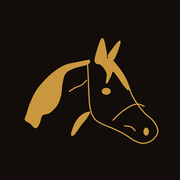
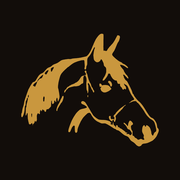
v2.2: gedetailleerde paardenkop (getrouwe vectorisatie), loader omlijning-dan-vulling

Changed region(s): [[0.1111, 0.1667, 0.8889, 0.8333], [0.2222, 0.5278, 0.25, 0.5833]]

diff --git a/src/kop.ts b/src/kop.ts
@@ -1,18 +1,4 @@
-// Paardenkop, vereenvoudigd overgetrokken uit het logo (zie /workspace/tpeerdeke-img/paardenkop.svg)
-export const KOP_VB = "30 20 740 590";
-export const KOP: { t: "ln" | "fl"; d?: string; e?: [number, number, number, number] }[] = [
-  { t: "ln", d: "M395 150C384.2 152.5 351.7 160 330 165C308.3 170 285.8 171.7 265 180C244.2 188.3 224.2 200.8 205 215C185.8 229.2 166.7 247.5 150 265C133.3 282.5 118 300 105 320C92 340 81.2 363.3 72 385C62.8 406.7 55.3 434.5 50 450C44.7 465.5 41.7 473.3 40 478" },
-  { t: "ln", d: "M386 168C386.7 180 388.8 214.7 390 240C391.2 265.3 391.7 293.3 393 320C394.3 346.7 395.5 379.2 398 400C400.5 420.8 406.3 437.5 408 445" },
-  { t: "ln", d: "M522 148C529.7 157.5 554.5 185.5 568 205C581.5 224.5 592.2 242 603 265C613.8 288 622.8 321.5 633 343C643.2 364.5 652 377 664 394C676 411 690.7 429.8 705 445C719.3 460.2 738.3 470.8 750 485C761.7 499.2 771.7 516.5 775 530C778.3 543.5 776.5 554.3 770 566C763.5 577.7 749.3 592.5 736 600C722.7 607.5 705.2 611.7 690 611C674.8 610.3 652.5 598.5 645 596" },
-  { t: "ln", d: "M645 596C635.8 590 609.2 571 590 560C570.8 549 550 539.2 530 530C510 520.8 486.7 513.3 470 505C453.3 496.7 440.3 490 430 480C419.7 470 411.7 450.8 408 445" },
-  { t: "ln", d: "M286 322C291.7 318.5 308.5 307 320 301C331.5 295 345 292.5 355 286C365 279.5 375.8 266 380 262" },
-  { t: "ln", d: "M528 482C535 475.3 554.7 454.5 570 442C585.3 429.5 604.3 415.2 620 407C635.7 398.8 650.7 393.3 664 393C677.3 392.7 694 403 700 405" },
-  { t: "ln", d: "M592 514C598 515 618.3 515.7 628 520C637.7 524.3 646.3 536.7 650 540" },
-  { t: "fl", d: "M392 152C382.7 150.8 351.2 158.7 330 163C308.8 167.3 285.8 169.7 265 178C244.2 186.3 224.2 198.8 205 213C185.8 227.2 166.7 245.5 150 263C133.3 280.5 118 298 105 318C92 338 81.2 361.3 72 383C62.8 404.7 55 431.8 50 448C45 464.2 38.7 471.3 42 480C45.3 488.7 60.7 492.7 70 500C79.3 507.3 90 524.3 98 524C106 523.7 112 509.7 118 498C124 486.3 124.7 463.7 134 454C143.3 444.3 160.7 449 174 440C187.3 431 203.7 415.8 214 400C224.3 384.2 231 365 236 345C241 325 239.7 300.5 244 280C248.3 259.5 251 236.7 262 222C273 207.3 289.3 200.7 310 192C330.7 183.3 372.3 176.7 386 170C399.7 163.3 401.3 153.2 392 152Z" },
-  { t: "fl", d: "M430 158C426.3 146.7 433.7 121.3 440 100C446.3 78.7 460.3 32 468 30C475.7 28 482.3 69.7 486 88C489.7 106.3 494 126.7 490 140C486 153.3 472 165 462 168C452 171 433.7 169.3 430 158Z" },
-  { t: "fl", d: "M502 128C502.3 117.7 517.3 100 528 86C538.7 72 562.3 41.3 566 44C569.7 46.7 556.7 84.7 550 102C543.3 119.3 534 143.7 526 148C518 152.3 501.7 138.3 502 128Z" },
-  { t: "fl", d: "M458 165C459.7 157 477.3 144.2 488 142C498.7 139.8 510 142.7 522 152C534 161.3 547.7 181.3 560 198C572.3 214.7 587 233 596 252C605 271 615 305.7 614 312C613 318.3 599 301 590 290C581 279 570.3 259.3 560 246C549.7 232.7 536 211 528 210C520 209 518 229 512 240C506 251 494.7 278.3 492 276C489.3 273.7 498.3 240.3 496 226C493.7 211.7 484.3 200.2 478 190C471.7 179.8 456.3 173 458 165Z" },
-  { t: "fl", e: [490, 322, 25, 19] },
-  { t: "fl", e: [712, 546, 15, 22] },
-  { t: "fl", d: "M298 560C299 550.3 309 519 318 502C327 485 339 468.7 352 458C365 447.3 391.7 435.7 396 438C400.3 440.3 386.3 459.7 378 472C369.7 484.3 357 497.3 346 512C335 526.7 320 552 312 560C304 568 297 569.7 298 560Z" },
-];
+// Paardenkop uit het logo, getrouw gevectoriseerd (4x Lanczos, iso-contour, Bezier-fit). Bron: /workspace/tpeerdeke-img/paardenkop.svg
+export const KOP_VB = "173.8 16.3 381.1 314";
+export const KOP_D =
+  "M394.8 20.5C393.2 20.9 391.6 21.4 389.4 23.5C387.2 25.6 383.9 29.5 381.6 33C379.3 36.5 377.9 39.6 375.6 44.5C373.4 49.5 370.1 58.1 367.9 62.8C365.7 67.5 364.1 70.2 362.6 72.7C361.1 75.2 360.1 76.3 358.9 77.7C357.7 79.1 356.7 80.2 355.4 81C354.1 81.8 354.4 81.8 351 82.6C347.6 83.4 340.4 85.1 335 85.9C329.7 86.8 322.7 87 318.8 87.5C314.9 88 313.9 88.8 311.5 89.1C309.1 89.3 307.1 88.9 304.3 89.1C301.4 89.3 297.2 89.9 294.2 90.5C291.2 91.1 289.3 91.2 286.3 92.7C283.3 94.2 279.8 97.6 276.2 99.6C272.6 101.5 267.7 102.8 264.6 104.5C261.6 106.2 260.6 107.9 257.9 109.6C255.2 111.2 251.8 111.6 248.4 114.3C245 116.9 240.7 122.9 237.6 125.5C234.5 128.1 232.1 128.1 229.9 129.7C227.6 131.4 226.7 132.2 224.3 135.4C221.8 138.6 218 146.2 215.3 149.2C212.6 152.1 211 149.9 208.2 153.3C205.4 156.7 200.6 165.6 198.5 169.3C196.4 173.1 197.6 170.4 195.7 175.8C193.7 181.2 188.7 195.4 186.8 201.5C185 207.6 185.7 208.5 184.7 212.5C183.7 216.5 181.8 221.8 180.9 225.5C180 229.3 179.8 233.1 179.3 235C178.9 236.8 178.6 235.8 178.3 236.7C178 237.7 177.8 239.3 177.8 240.8C177.7 242.2 177.8 244.3 178.1 245.2C178.4 246.2 179 246.5 179.4 246.7C179.9 246.9 180.2 247.4 180.9 246.3C181.7 245.2 182.9 242.6 183.8 240.1C184.6 237.7 185.4 235.5 186.1 231.7C186.7 228 187 220.4 187.6 217.5C188.1 214.6 188.8 216.6 189.2 214.3C189.6 212.1 189.4 206.4 189.9 204C190.4 201.7 191.8 201.6 192.2 200.3C192.7 199.1 192.4 197.6 192.8 196.6C193.1 195.7 194 194.9 194.4 194.5C194.8 194.2 195.2 193.6 195.4 194.5C195.5 195.4 195.8 196.6 195.3 199.7C194.8 202.8 192.8 209.7 192.2 213C191.6 216.3 191.9 218 191.6 219.5C191.3 221 190.7 218.7 190.4 222.3C190.1 225.8 189.7 237.5 189.7 240.7C189.6 244 190 241.5 190.2 241.6C190.5 241.8 190.8 242.5 191.2 241.6C191.7 240.8 192.7 237.5 193.2 236.5C193.6 235.6 193.9 236 194.2 236C194.5 236 194.7 234.1 195 236.6C195.3 239.1 195.2 246.6 195.7 251.2C196.3 255.7 197.8 261.5 198.4 264C199 266.4 199 265.4 199.6 265.8C200.1 266.2 201 266.6 201.7 266.5C202.5 266.3 203.5 265.6 204.2 265.1C204.9 264.5 205.4 263.3 205.9 263C206.3 262.6 206.4 262.5 206.9 263C207.3 263.6 208 265.1 208.4 266.3C208.7 267.5 208.7 270.2 208.8 270.2C209 270.2 208.6 267.6 209.3 266.4C209.9 265.2 211.8 264.4 212.7 262.8C213.6 261.2 214.4 258 214.9 257C215.3 256 215.2 256.4 215.6 256.8C216 257.2 216.8 259.5 217.5 259.4C218.1 259.3 219 257.1 219.5 256.1C219.9 255.1 220 255.6 220.1 253.5C220.2 251.4 219.8 245.7 219.9 243.3C220.1 240.8 220.6 240.2 221.1 239C221.7 237.8 222.4 236.3 223.3 236.2C224.1 236 225.3 238 226.1 238.3C226.9 238.6 227.8 238.6 228.2 237.8C228.5 237 228 235 228.2 233.3C228.5 231.7 229.2 228.7 229.6 227.8C230.1 226.9 230.8 227.5 231.2 228C231.6 228.4 231.8 229.8 232.1 230.3C232.4 230.7 232.3 231.4 232.9 230.6C233.6 229.8 235.1 226.1 235.9 225.5C236.6 225 236.7 226.9 237.5 227.4C238.2 227.9 239.9 228.2 240.4 228.7C241 229.2 240.5 230 240.8 230.6C241.1 231.1 241.5 231.6 242 231.9C242.5 232.2 243.2 232.4 243.7 232.3C244.1 232.1 244.4 231.9 244.8 230.9C245.2 229.9 245.5 227.4 246.1 226.4C246.6 225.5 247.3 225.3 248.2 225.1C249.1 224.8 249.9 225.8 251.4 224.8C252.9 223.7 256.2 220.3 257.4 218.8C258.6 217.3 258.2 218.1 258.4 215.8C258.7 213.4 258.7 207 258.9 204.8C259.1 202.5 259.5 202.5 259.7 202.1C260 201.7 260.2 201.4 260.4 202.5C260.7 203.5 260.8 206.7 261.2 208.2C261.6 209.7 261.9 211.3 262.8 211.3C263.6 211.3 265.7 209.7 266.5 208.3C267.2 207 267 204.1 267.2 203.1C267.5 202 267.6 202.3 268 202.1C268.4 201.9 269.2 201.5 269.6 202C270 202.5 270.1 204.5 270.6 205.1C271 205.6 272.1 206.2 272.4 205.3C272.7 204.4 272.2 201.3 272.5 199.5C272.8 197.6 273.8 195.2 274.2 194.3C274.6 193.5 274.7 194.1 275 194.4C275.3 194.8 275.6 195 276 196.4C276.3 197.9 276.7 202 277 203.1C277.4 204.3 277.3 205.1 278.1 203.2C278.8 201.3 281.4 196.8 281.5 191.7C281.6 186.6 279.5 176.7 278.8 172.6C278.1 168.4 277.5 168.9 277.3 166.8C277.2 164.6 277.3 162.8 277.7 159.8C278.1 156.8 278.4 153.3 279.6 148.7C280.7 144.2 282.4 136.8 284.5 132.4C286.6 128 288.8 126 292.1 122.4C295.3 118.9 301.8 113.1 304.2 111.1C306.6 109 305.9 110.7 306.6 110.2C307.2 109.8 305.7 110.2 308 108.4C310.3 106.6 315.5 102.1 320.3 99.7C325 97.2 332.1 94.9 336.5 93.6C340.9 92.4 344.9 92.2 346.8 92C348.7 91.8 347.7 92 348.1 92.5C348.5 93 348.8 92.4 349.1 95C349.5 97.7 350.1 105.2 350.1 108.5C350.1 111.8 349 113.5 349.2 115C349.4 116.5 350.6 117.4 351.3 117.4C352.1 117.5 353 116.8 353.5 115.4C354.1 114 354 110.9 354.5 108.9C355 106.9 356.1 106.7 356.6 103.2C357.1 99.7 356 92.1 357.4 87.8C358.9 83.4 362.5 81.6 365.2 77.1C368 72.6 371.8 64.2 373.7 60.8C375.6 57.5 376.1 57.1 376.7 56.9C377.3 56.7 377.7 58.3 377.5 59.5C377.4 60.7 376.4 61.2 375.7 64.1C375.1 67 374 73.6 373.6 76.8C373.3 79.9 373.6 80.3 373.8 82.8C374.1 85.2 374.4 89.2 375.3 91.3C376.2 93.5 378 94.7 379.1 95.8C380.3 96.8 381.3 97.1 382.2 97.5C383 97.8 383.4 97.7 384.2 97.6C385.1 97.6 385.9 97.7 387.1 97.2C388.2 96.7 390.1 95.6 391.2 94.4C392.4 93.2 393.5 90.7 394.1 89.9C394.7 89.2 394.4 89.4 394.9 89.8C395.3 90.1 396 90.3 397 92.1C398.1 93.9 400.1 98 401 100.6C401.9 103.2 401.5 105.5 402.6 107.5C403.7 109.6 406.6 110.5 407.6 113C408.6 115.6 408.3 120.4 408.3 122.8C408.4 125.1 408.2 125 407.6 127C407 128.9 406 131.8 404.8 134.4C403.5 137 400.9 140.4 399.9 142.5C398.9 144.7 398.4 146.4 398.6 147.2C398.9 148 400.5 147.5 401.4 147.1C402.4 146.7 402.7 146.7 404.2 144.9C405.8 143 409.2 138.4 410.8 135.9C412.3 133.4 412.9 130.9 413.6 129.7C414.3 128.5 414.5 128.7 415.1 128.5C415.7 128.3 416.3 128.3 417 128.6C417.7 128.9 418.3 128.9 419.1 130.1C419.8 131.2 420.2 133.5 421.5 135.6C422.8 137.8 424.8 141.1 426.6 143C428.5 144.9 430.9 146.2 432.6 147C434.3 147.8 435.4 146.5 436.6 147.8C437.7 149.2 438.3 153.6 439.3 155.1C440.3 156.5 441.6 156.2 442.6 156.5C443.7 156.7 445 155.8 445.6 156.6C446.2 157.3 445.5 159.7 446 161.1C446.5 162.5 447.9 164.3 448.5 165.1C449.2 165.9 449.3 165.1 450 166.1C450.7 167.2 451.9 170.3 452.8 171.3C453.7 172.3 454.7 172.3 455.4 172C456.1 171.8 456 169.9 457 169.7C457.9 169.6 460.1 171.4 461 171.3C461.8 171.2 461.9 170.4 461.9 169.2C462 168.1 462 166 461.3 164.6C460.7 163.1 458.9 161.7 458 160.3C457.2 159 456.4 156.9 456.4 156.3C456.4 155.6 457.5 156.2 458 156.4C458.4 156.7 458.4 157.4 459.1 157.8C459.7 158.3 461 158.5 461.8 159C462.7 159.6 463.5 160.3 464.4 161.3C465.2 162.2 465.1 161 466.8 164.6C468.6 168.2 472 177.5 474.8 182.9C477.6 188.2 482.1 193.9 483.6 196.5C485 199.1 483.9 197.8 483.6 198.5C483.4 199.1 483.3 199.8 482.3 200.4C481.3 201 478.7 201.5 477.7 202.1C476.7 202.6 477 203.2 476.5 203.6C475.9 204 474.7 204.2 474.2 204.6C473.8 205.1 474.1 206.1 473.6 206.4C473.1 206.8 471.6 206.7 471.1 207C470.6 207.2 470.6 207.7 470.7 207.9C470.7 208.1 470 208.7 471.7 208.1C473.3 207.4 478.1 205 480.6 204.2C483.2 203.4 485.4 203.2 487 203.3C488.6 203.3 489.2 203.7 490.2 204.5C491.1 205.2 492 206.9 492.9 207.8C493.8 208.6 493 206.5 495.6 209.6C498.1 212.6 504.8 221.5 508.2 226.2C511.5 230.9 513.6 235 515.6 238C517.7 241 518.4 242.1 520.5 244.4C522.6 246.6 526.5 250.2 528 251.6C529.6 252.9 528.2 251.1 529.9 252.5C531.6 253.8 536.1 255.8 538.3 259.8C540.6 263.9 542.5 272.6 543.4 276.8C544.3 280.9 544.4 282.7 543.7 284.8C542.9 286.9 540.4 287.2 539 289.1C537.7 291 536.5 295 535.6 296.2C534.7 297.4 534.5 297.1 533.7 296.4C533 295.7 531.7 293.7 531.1 291.8C530.4 289.9 530.6 287.4 530 284.9C529.4 282.4 528.1 278.8 527.2 276.9C526.4 275 525.9 274.5 525 273.4C524 272.3 522.6 271 521.4 270.2C520.2 269.5 518.7 268.9 517.9 268.7C517.2 268.5 517.2 268.5 516.9 269C516.6 269.5 516.4 271.4 516.1 272C515.8 272.6 515.4 272.5 515 272.5C514.5 272.5 514 272.4 513.5 271.8C513.1 271.3 512.6 269.6 512.1 269.1C511.5 268.6 511.1 268.2 510.3 268.9C509.4 269.6 507.8 271.1 507 273.4C506.3 275.7 505.7 280.2 505.6 282.8C505.6 285.3 505.8 286.3 506.6 288.5C507.4 290.8 509.8 294.1 510.3 296.3C510.8 298.4 509.5 299.6 509.7 301.5C509.9 303.4 511.9 306.4 511.6 307.5C511.3 308.6 509.1 308.4 507.9 308.2C506.7 308 505.4 306.7 504.3 306.3C503.2 306 502.6 305.8 501.2 306.1C499.9 306.4 497.2 307.8 496 308.1C494.8 308.4 495 308.5 494.1 307.8C493.1 307.2 491.4 305.2 490.1 304.3C488.8 303.4 487.4 303.4 486.3 302.3C485.2 301.3 484.2 299.1 483.4 298.2C482.5 297.4 481.8 297.9 481.2 297.4C480.6 297 480.1 297.7 479.8 295.6C479.5 293.5 479.8 287.1 479.5 285C479.3 283 478.7 284.5 478.1 283.3C477.5 282.1 476.4 279.9 475.9 277.9C475.5 276 475.2 273.2 475.4 271.8C475.5 270.3 476.1 269.8 476.9 269C477.7 268.2 479.6 267.7 480.3 266.9C480.9 266.1 480.7 265.1 480.6 264.3C480.5 263.4 480.5 263.1 479.7 261.9C478.9 260.8 476.9 258.3 475.7 257.4C474.6 256.5 473.5 256.6 472.8 256.6C472 256.6 471.8 256.3 471 257.6C470.2 258.9 468.8 262.3 468.2 264.3C467.6 266.3 467.6 268.4 467.4 269.5C467.1 270.5 466.8 270.4 466.4 270.5C466 270.7 465.3 270.6 464.9 270.2C464.5 269.8 464.9 269.3 464.1 268.3C463.3 267.2 461.1 265 459.9 264C458.7 262.9 457.5 262.3 456.8 262C456.2 261.8 455.8 262.1 455.7 262.6C455.6 263 455.4 263.9 456.2 264.9C457 265.9 459.5 267.3 460.5 268.4C461.5 269.5 461.5 270.8 462.1 271.6C462.6 272.3 463.4 272 463.9 272.8C464.3 273.5 464.1 274.9 464.8 276.1C465.5 277.2 466.8 278.8 468 279.6C469.2 280.5 470.3 279.5 471.9 281.2C473.5 283 477.2 287.8 477.7 290.1C478.2 292.5 475.9 294.4 475 295.3C474.1 296.1 473.1 295.4 472.4 295.2C471.7 295 471.1 294.4 470.8 294.1C470.5 293.7 471 293.4 470.7 293.2C470.4 292.9 470.4 292.7 469.2 292.6C468.1 292.5 464.9 292.8 463.9 292.5C462.8 292.2 462.7 291.5 462.9 291.1C463.2 290.7 464.9 290.4 465.3 290.1C465.6 289.8 465.6 289.5 465.1 289.2C464.7 288.9 463.5 288.5 462.5 288.4C461.5 288.4 459.4 289.1 459.1 289C458.8 288.9 460.6 288.3 460.8 287.9C461 287.6 462.2 288.4 460.3 286.8C458.5 285.2 452 280.2 449.6 278.6C447.1 276.9 446.6 277.6 445.5 276.9C444.5 276.2 444.1 274.9 443.3 274.4C442.4 273.9 441.1 274.7 440.4 273.9C439.7 273.2 439.8 270.6 439.1 269.8C438.4 268.9 436.8 268.6 436.1 268.8C435.5 268.9 435.3 269.9 435.1 270.7C434.8 271.6 435 273.3 434.7 273.9C434.5 274.4 433.9 274.5 433.6 274.1C433.2 273.6 433.2 271.8 432.6 271C432 270.2 430.8 270 430.1 269.3C429.4 268.6 428.9 268.3 428.5 266.9C428 265.5 427.7 261.9 427.4 261C427 260.1 426.7 260.8 426.4 261.8C426.2 262.7 426.1 265.8 425.9 266.7C425.6 267.7 425.9 267.5 424.8 267.3C423.8 267 420.5 265.7 419.6 265.2C418.8 264.7 419.3 264.7 419.7 264.3C420 263.9 421.5 263.4 421.9 263C422.3 262.7 422.7 262.5 422.2 262.1C421.8 261.7 420 261.1 419.3 260.5C418.7 259.9 420.4 259.4 418.4 258.5C416.4 257.6 412.1 255.8 407.4 255C402.7 254.2 394.2 254.4 390.4 253.7C386.6 253.1 386.1 252.2 384.5 251.3C382.9 250.5 382.5 250.2 380.8 248.8C379.1 247.5 376.2 245.3 374.5 243.4C372.7 241.5 373.8 243.2 370.3 237.6C366.8 232 357.2 215.4 353.5 209.9C349.8 204.3 349.4 205.3 347.9 204.3C346.3 203.2 345.6 203.4 344.5 203.4C343.4 203.5 342.1 203.9 341.4 204.5C340.7 205.1 340.5 206.3 340.4 207C340.3 207.7 340.3 208.1 340.6 208.7C341 209.4 340.9 209.9 342.6 211C344.4 212.1 348.8 213.5 350.9 215.2C353 216.8 357.1 219.2 355.2 220.9C353.4 222.6 343.2 224.1 339.8 225.4C336.3 226.7 336.6 226.7 334.4 228.6C332.2 230.4 329.2 233.1 326.5 236.6C323.8 240.2 320.4 245.8 318.2 249.8C315.9 253.7 314.8 255.9 313 260.4C311.2 264.8 308.4 272.5 307.1 276.5C305.9 280.5 305.6 282.9 305.4 284.5C305.2 286.1 305.6 285.7 305.8 286.1C306 286.6 306.3 287 306.6 287.2C307 287.5 307.3 287.8 308 287.6C308.7 287.3 309.6 287.5 310.7 285.6C311.9 283.7 313.6 278.3 314.8 275.9C316 273.6 317 272.4 318 271.4C319 270.3 319.9 269.9 320.6 269.8C321.3 269.6 321.9 270.3 322.3 270.6C322.7 270.9 322.8 269.6 323 271.7C323.1 273.8 323 280.6 323.2 283.2C323.4 285.9 323.8 286.5 324.2 287.5C324.5 288.5 324.9 288.9 325.5 289.1C326.1 289.3 327 289.3 327.7 288.8C328.4 288.3 329.1 287.9 329.7 285.9C330.3 283.8 329.8 280.9 331.3 276.6C332.7 272.4 336.3 264.4 338.2 260.4C340.1 256.3 341.2 254.8 342.7 252.6C344.1 250.3 344.8 249 346.9 246.7C348.9 244.4 353 240.5 354.8 238.7C356.7 237 356.7 236.8 358 236.1C359.3 235.5 361.3 234.9 362.5 235C363.6 235 364.1 235.5 364.9 236.2C365.7 236.9 366.7 238.2 367.2 239.1C367.8 240 367 239.7 368.3 241.6C369.5 243.5 372.4 248 374.6 250.5C376.8 253.1 378.5 254.8 381.5 256.8C384.6 258.9 390.2 261.6 392.9 262.7C395.5 263.9 395.7 263.7 397.5 263.8C399.3 264 402.1 263.6 403.7 263.7C405.4 263.8 405.4 263.7 407.3 264.6C409.2 265.4 411.5 266.4 415.2 268.6C419 270.8 426.7 275.9 429.7 277.6C432.8 279.4 432.5 278.4 433.6 279.1C434.6 279.7 434.5 280.6 436.2 281.4C437.8 282.3 440.2 282.1 443.5 284.3C446.9 286.6 452.5 292.2 456.5 294.9C460.5 297.6 464.4 297.8 467.5 300.4C470.6 302.9 472.5 307.6 475.2 310.2C477.9 312.8 481 313.9 483.7 316.1C486.4 318.4 489.3 321.9 491.4 323.5C493.5 325.2 494.9 325.7 496.3 326.1C497.7 326.5 498.5 326.1 499.7 325.8C500.8 325.4 502.3 324.6 503.1 324C503.9 323.3 503.6 322.6 504.5 321.8C505.3 321 505.8 319.9 508.3 319.2C510.7 318.4 515.4 318.4 519.3 317.2C523.2 316 529 313 531.6 311.8C534.2 310.5 533.5 311 535 309.6C536.6 308.3 539.2 306 541 303.8C542.8 301.7 544.1 300.1 545.8 296.7C547.4 293.2 550.4 286.6 550.8 283.2C551.2 279.9 548.9 278 548.3 276.6C547.6 275.2 547.4 276.8 546.9 275C546.4 273.2 545.9 268.3 545.3 265.8C544.6 263.4 544 262.2 543.1 260.3C542.1 258.5 540.8 256.4 539.4 254.7C538.1 253 537.4 252.1 535.1 250.2C532.8 248.4 530.1 249.1 525.7 243.7C521.3 238.3 513 223.9 508.8 217.8C504.6 211.8 503.2 210.4 500.5 207.4C497.8 204.4 495 202.6 492.4 199.7C489.8 196.8 486.5 192.5 484.8 190.1C483.1 187.6 483 186.1 482.2 184.9C481.5 183.7 481.2 185 480.3 182.9C479.3 180.8 478.6 177.1 476.5 172.4C474.4 167.6 469.6 158.4 467.5 154.4C465.4 150.4 464.9 149.7 463.9 148.5C462.9 147.3 462.6 148 461.7 147.1C460.9 146.3 459.7 144.7 458.8 143.3C457.9 142 457 140.5 456.4 139C455.8 137.6 455.6 135.7 455.2 134.6C454.8 133.6 454 133.2 453.9 132.7C453.8 132.2 454.1 131.7 454.7 131.6C455.4 131.6 455.6 130.9 457.6 132.5C459.5 134.2 464.7 139.9 466.4 141.4C468.1 142.9 467.5 141.8 467.8 141.7C468.1 141.5 468.4 141.2 468.2 140.4C468.1 139.6 467.7 138.3 466.9 136.9C466.2 135.6 464.7 133.4 463.9 132.5C463.1 131.5 463.5 132.9 462.3 131.3C461.1 129.7 458 124.9 456.8 122.8C455.6 120.7 456.5 120.9 455.1 118.8C453.7 116.7 449.7 112.5 448.2 110.2C446.7 107.9 446.1 106 445.9 105C445.8 104.1 446.2 104.5 447.2 104.6C448.3 104.7 450.3 105.1 452.1 105.7C454 106.4 456 107.3 458.1 108.5C460.3 109.8 463.4 112.4 465 113.2C466.5 114 467 113.8 467.3 113.4C467.7 113.1 467.6 112.2 466.9 111.2C466.3 110.2 465 108.9 463.5 107.6C462 106.3 459.5 104.3 457.8 103.3C456.2 102.3 455 102.4 453.6 101.5C452.3 100.7 451.3 99.2 449.7 98.2C448.1 97.2 446.1 96.7 444.1 95.5C442.1 94.4 440.3 93.2 437.8 91.1C435.2 89.1 430.9 85.5 428.7 83.2C426.5 80.9 424.9 79.2 424.4 77.4C424 75.6 424.9 74.6 426 72.4C427.1 70.2 428.9 68.7 431 64.4C433.1 60.2 436.6 51 438.5 46.9C440.5 42.8 441.5 42.5 442.7 39.8C443.8 37.1 445 32.6 445.4 30.5C445.7 28.4 445 27.7 444.7 26.9C444.4 26.1 444 25.9 443.5 25.6C443 25.3 442.4 25.1 441.7 25C441 24.9 440.1 24.8 439.5 24.9C438.9 25 440.1 22.5 438.2 25.6C436.3 28.7 431.8 38.3 428.2 43.6C424.5 48.8 418.5 54.4 416.4 57C414.2 59.6 415.8 58.7 415.3 59.2C414.9 59.8 414.5 59.3 413.7 60.3C412.9 61.3 411.4 64.4 410.6 65.5C409.9 66.6 409.6 66.8 409.2 67.1C408.8 67.4 409 67.5 408 67.3C407 67.2 404.6 66.7 403.4 66C402.1 65.4 401.2 70.3 400.7 63.4C400.3 56.5 400.9 31.4 400.8 24.5C400.7 17.7 400.5 22.9 400.1 22.3C399.8 21.6 399.7 21.1 398.8 20.8C397.9 20.5 396.4 20 394.8 20.5ZM263.1 111.5C264.3 110.9 265.1 111.3 265.6 111.5C266 111.7 266.8 110.7 265.8 112.7C264.8 114.7 260.8 123.1 259.6 123.5C258.3 123.9 257.8 117.3 258.4 115.3C259 113.3 261.9 112.1 263.1 111.5ZM250.6 119.5C251.4 119.3 251.3 119.7 251.4 120C251.5 120.2 251.9 119.6 251.3 120.9C250.7 122.2 248.8 126.1 247.7 127.8C246.6 129.5 245.6 130.8 244.6 131C243.7 131.1 242.4 129.3 242 128.7C241.5 128 241 128.2 241.8 127C242.6 125.7 245.3 122.4 246.8 121.2C248.3 119.9 249.9 119.7 250.6 119.5ZM351.8 120.2C351.2 120.3 350.5 121.5 350.2 122.1C349.9 122.7 349.4 122.5 350 123.7C350.5 125 352.9 128.3 353.5 129.6C354.1 130.8 353.9 130.6 353.5 131.2C353.2 131.7 351.3 131.5 351.4 133C351.5 134.5 353.7 138 354.3 140.3C354.9 142.7 355 144.3 355 147C355 149.7 354.3 152.3 354.3 156.2C354.3 160.2 354.5 167.4 355 171C355.5 174.5 356.9 175.9 357.3 177.6C357.7 179.3 357.2 180.3 357.4 181C357.5 181.7 357.8 181.8 358.1 181.5C358.4 181.3 358.9 180.7 359.2 179.6C359.5 178.4 359.8 177.8 359.8 174.8C359.9 171.7 359.8 164.1 359.5 161.3C359.3 158.5 358.4 159.1 358.3 158C358.3 156.9 358.4 154.7 359 154.5C359.6 154.2 360.5 154.2 362 156.6C363.5 159 366.8 166.3 367.9 168.8C368.9 171.2 368.1 170.6 368.4 171.2C368.8 171.8 369.3 171.2 370.1 172.6C370.8 173.9 372.4 178 373.2 179.2C374 180.3 374.3 179.8 374.7 179.6C375 179.4 375.3 178.7 375.5 178C375.6 177.3 375.8 176.7 375.3 175.5C374.9 174.4 373.2 172.4 372.5 171.1C371.9 169.7 371.9 168.6 371.2 167.4C370.5 166.3 369.4 165.9 368.6 164.1C367.7 162.3 366.9 158.4 366.1 156.5C365.3 154.6 364.8 154.8 363.8 152.6C362.8 150.4 361.3 147.3 360.1 143.5C358.9 139.7 357.5 132.9 356.6 130.1C355.7 127.3 355.1 128.1 354.7 126.7C354.3 125.3 354.7 123 354.2 121.9C353.7 120.8 352.5 120.2 351.8 120.2ZM235.4 132.5C236.7 131.5 236.4 132.3 236.6 132.5C236.9 132.7 237.3 132.5 236.8 133.7C236.4 134.9 234.7 138.4 233.9 139.6C233.2 140.8 233.7 140.2 232.5 140.9C231.3 141.6 228.6 142.1 226.8 143.6C224.9 145.2 222.3 149.3 221.4 150C220.5 150.8 221.2 148.5 221.4 148C221.6 147.5 222.2 147.7 222.6 147C223 146.3 223.3 144.5 223.9 143.7C224.4 143 225.1 143.4 225.9 142.5C226.7 141.6 227.2 140.1 228.8 138.4C230.4 136.7 234.1 133.5 235.4 132.5ZM349.1 132.8C348.7 132.9 349.2 133.7 348.4 134.1C347.6 134.4 345.7 134.2 344.3 134.7C343 135.3 342 135.5 340.2 137.6C338.4 139.7 335.7 144.9 333.5 147.4C331.4 149.9 328.8 151.5 327.4 152.5C325.9 153.5 325.4 153 324.6 153.5C323.8 153.9 324.4 154.3 322.4 155.3C320.4 156.3 314.5 158.4 312.7 159.3C310.8 160.2 311.9 160.3 311.3 160.7C310.7 161 309.7 160.8 308.9 161.3C308.2 161.8 307.4 163 306.6 163.5C305.8 164 305 163.8 304.1 164.5C303.2 165.1 302 166.3 301.1 167.5C300.2 168.6 299.6 170.6 298.9 171.5C298.1 172.3 297.2 171.8 296.5 172.6C295.8 173.5 295.1 175.2 294.8 176.4C294.4 177.5 294.3 179.1 294.5 179.6C294.7 180.1 295.1 180.6 296.2 179.3C297.3 178 299.8 173.5 301 172.1C302.1 170.7 302.5 171.5 303.1 170.9C303.6 170.4 303.4 169.8 304.4 169C305.4 168.3 306.3 167.3 309 166.3C311.7 165.4 317.7 163.8 320.7 163.3C323.7 162.7 324.7 163.3 327.1 163C329.5 162.6 332.7 162.2 335 161.2C337.3 160.1 339.5 157.5 341.1 156.5C342.7 155.5 343.8 155.9 344.6 155.2C345.3 154.5 345.6 154.7 345.8 152.2C346.1 149.8 345.9 143.2 346.1 140.5C346.4 137.8 346.7 137.3 347.4 136C348.1 134.8 350.3 133.8 350.6 133.2C350.8 132.7 349.4 132.6 349.1 132.8ZM415.1 148.4C414.4 148.8 413.8 150 413.5 150.7C413.3 151.3 412.9 151.3 413.5 152.3C414.2 153.3 416.2 155 417.3 156.8C418.4 158.6 419.4 162.1 420.1 163.2C420.9 164.4 421.3 164 421.9 163.5C422.6 163 423.9 161.7 424.1 160.2C424.2 158.7 423.6 156.2 423 154.6C422.5 152.9 421.5 151.4 420.5 150.4C419.5 149.4 418.1 148.8 417.2 148.5C416.3 148.1 415.7 148.1 415.1 148.4ZM220.6 151.5C220.4 153.4 216.5 161.6 215.5 163.6C214.5 165.7 215.4 164.1 214.6 163.8C213.7 163.4 211 162.3 210.3 161.6C209.6 160.9 209.9 160.5 210.3 159.6C210.6 158.8 211.4 157.6 212.6 156.4C213.7 155.3 215.8 153.5 217.1 152.7C218.4 151.9 220.9 149.7 220.6 151.5ZM390.8 155.7C390.2 155.7 390.3 155.8 390.1 156.5C389.9 157.2 389.6 158.5 389.7 159.7C389.9 161 390.6 163.1 390.9 164C391.2 164.9 391 164.9 391.5 164.9C392 164.9 393.2 163.9 393.7 163.8C394.3 163.8 394.5 164 394.6 164.5C394.6 165 394.5 166.2 394.2 166.8C393.9 167.5 392.6 167.4 392.6 168.5C392.6 169.6 393.7 172.4 394.2 173.7C394.7 174.9 394.7 175.1 395.6 176C396.6 176.9 398.5 178.4 399.9 179C401.2 179.6 402.5 179.6 403.8 179.7C405 179.7 405.8 179.9 407.6 179.3C409.5 178.7 412.6 177.4 414.9 176C417.2 174.7 420.5 172.1 421.6 170.9C422.7 169.8 422.5 170.6 421.5 169.1C420.5 167.6 417.7 163.4 415.5 161.8C413.4 160.3 411 160 408.5 159.7C406 159.3 402.4 159.6 400.6 159.7C398.7 159.9 398.5 161 397.4 160.5C396.3 159.9 395.1 157.1 394 156.3C393 155.5 391.5 155.7 390.8 155.7ZM197.4 186.5C197.7 186.3 197.9 186.5 198 187.3C198.1 188.1 198 190.6 198 191.5C197.9 192.4 197.7 192.6 197.5 192.9C197.2 193.2 196.8 194 196.5 193.4C196.3 192.7 195.9 190.2 196 189.1C196.2 187.9 197.1 186.8 197.4 186.5ZM358.3 187.2C357.9 187.2 357.4 188 357.4 189C357.4 190 357.9 193 358.2 193C358.6 193 359.4 190 359.4 189C359.4 188 358.6 187.2 358.3 187.2ZM291.3 188.9C290.6 188.7 289.2 190.3 288.5 191.4C287.8 192.4 287.8 194.4 287.3 195.2C286.9 196.1 287 194.5 286 196.4C285.1 198.3 283.2 203.2 281.6 206.5C280 209.7 277.7 212.8 276.4 215.8C275.1 218.8 274.2 222.1 273.7 224.3C273.1 226.4 273.2 227.7 273.2 228.7C273.3 229.7 273.8 229.9 274.1 230.1C274.4 230.2 274.7 230.1 275 229.7C275.4 229.2 275.7 228.4 276 227.4C276.3 226.4 275.1 226.9 276.7 223.8C278.2 220.7 283.7 211.8 285.6 208.9C287.4 206.1 286.8 208.2 287.7 206.8C288.5 205.4 289.8 202.9 290.6 200.5C291.4 198.1 292.4 194.4 292.5 192.5C292.6 190.6 292 189.1 291.3 188.9ZM239.1 190.5C239.6 190.3 240.2 191.4 240.5 192.1C240.8 192.9 241 193.2 240.9 195C240.8 196.8 240.3 201.5 239.9 203C239.6 204.6 239.2 204.2 238.8 204.2C238.3 204.2 237.8 204.3 237.5 203C237.3 201.8 237.2 198.1 237.2 196.5C237.3 194.9 237.3 194.5 237.7 193.5C238 192.5 238.7 190.7 239.1 190.5ZM460.1 213.7C457.7 215.2 450.8 219.7 446.7 223.1C442.6 226.4 437.9 231.5 435.6 234C433.3 236.5 434 236.9 433 238.1C432 239.3 430.5 240 429.7 241.1C428.9 242.2 428.2 243.6 428.3 244.7C428.5 245.9 430.5 246.9 430.7 247.8C431 248.8 430 249.6 430 250.3C430 251 430.7 251.7 430.8 252.1C430.8 252.5 430.7 252.6 430.4 252.8C430.1 252.9 429.7 253.2 429.1 253C428.5 252.9 428.2 252.1 427 251.9C425.8 251.8 423 252.6 421.9 252C420.8 251.3 420.5 249.4 420.3 248.1C420 246.8 420.7 244.9 420.4 244.2C420.1 243.5 419.2 243.7 418.5 243.7C417.8 243.7 416.6 243.5 416.2 244.3C415.7 245.1 415.4 246.8 415.7 248.4C416 250.1 416.7 252.4 418.1 254.1C419.4 255.7 422.9 257.7 424 258.3C425.1 258.9 424.6 258.2 424.8 257.7C425 257.2 424.6 255.8 425.1 255.2C425.6 254.6 427.2 254.2 427.9 254.3C428.5 254.4 429 254.9 429.3 255.6C429.5 256.3 429.2 257.8 429.4 258.4C429.7 259.1 430.3 259.2 430.8 259.4C431.2 259.5 431.4 260.5 432.1 259.2C432.7 257.9 434.2 253.8 434.5 251.4C434.7 249 433.5 246.3 433.6 244.8C433.7 243.2 433.3 244.1 435 242.1C436.7 240.1 441.6 234.8 443.6 232.7C445.6 230.6 446.4 230.5 447.1 229.7C447.9 228.9 447.3 228.7 448.1 227.9C448.8 227.2 450 226.7 451.5 225.1C452.9 223.4 455 219.7 456.5 218.1C457.9 216.5 459.5 216 460.2 215.4C460.9 214.7 460.7 214.5 460.6 214.3C460.6 214 462.4 212.3 460.1 213.7ZM205.9 237C206.2 237 206.9 237.4 207 239C207.1 240.7 206.5 246 206.2 246.7C206 247.4 205.5 244.6 205.3 243.2C205.1 241.9 205.1 239.9 205.2 238.8C205.3 237.8 205.6 237 205.9 237Z";

diff --git a/src/index.css b/src/index.css
@@ -112,16 +112,16 @@ a { color: inherit; text-decoration: none; }
 }
 html:not(.anim) .pre { display: none; }
 /* Beginstand vóór GSAP (geen flits van de volledige tekening) */
-.anim .pre__kop .ln, .anim .pre__kop .fl { stroke-dasharray: 1; stroke-dashoffset: 1; }
-.anim .pre__kop .fl { fill-opacity: 0; }
+.anim .pre__kop .kop__s { stroke-dasharray: 1; stroke-dashoffset: 1; }
+.anim .pre__kop .kop__f { fill-opacity: 0; }
 .anim .pre__naam span { clip-path: inset(-20% 100% -20% 0%); }
 .anim .pre__line { opacity: 0; }
 .pre__in { display: grid; justify-items: center; gap: 0.25em; }
-.pre__kop { width: 13em; height: auto; overflow: visible; }
+.pre__kop { width: 17em; height: auto; overflow: visible; }
 .pre__naam { margin: 0; font-family: var(--f3); font-size: 4.25em; line-height: 1.15; padding: 0 0.15em; }
 .pre__naam span { display: block; }
 .pre__line { color: var(--creme); opacity: 0.55; margin-top: 0.75em; }
-@media (max-width: 767px) { .pre__kop { width: 10.5em; } .pre__naam { font-size: 3.25em; } .pre__line { font-size: 0.75em; } }
+@media (max-width: 767px) { .pre__kop { width: 12.5em; } .pre__naam { font-size: 3.25em; } .pre__line { font-size: 0.75em; } }
 
 /* Paardenkop (gedeeld) */
 .kop { display: block; overflow: visible; }
@@ -153,7 +153,7 @@ html:not(.anim) .pre { display: none; }
   display: flex; align-items: center; gap: 0.55em;
   font-family: var(--f1); text-transform: uppercase; letter-spacing: 0.18em; font-size: 1.125em; white-space: nowrap;
 }
-.hdr__kop { width: 1.65em; height: auto; color: var(--goud); flex: none; margin-top: -0.1em; }
+.hdr__kop { width: 2.1em; height: auto; color: var(--goud); flex: none; margin-top: -0.15em; }
 .hdr__tog {
   height: 100%; padding: 0 1.25em; background: none; border: 0; cursor: pointer; color: inherit;
   display: flex; flex-direction: column; justify-content: center; gap: 0.3125em; min-width: 44px;
@@ -184,7 +184,7 @@ html:not(.anim) .pre { display: none; }
   .hdr { top: 0.75rem; max-width: calc(100% - 1.5rem); height: 3rem; padding: 0.3rem; }
   .hdr__call { border: 0; padding: 0 0.75rem; }
   .hdr__logo { font-size: 1em; letter-spacing: 0.1em; gap: 0.45em; }
-  .hdr__kop { width: 1.4em; }
+  .hdr__kop { width: 1.8em; }
   .hdr__tog { padding: 0 0.75rem; }
   .hdr__tog i { width: 2em; }
   .menu { top: calc(100% + 0.375em); }
@@ -366,7 +366,7 @@ html:not(.anim) .pre { display: none; }
 /* Footer */
 .foot { background: var(--inkt); color: var(--creme); padding: 6em var(--pad) var(--pad); overflow: hidden; }
 .foot__brand { display: flex; align-items: center; gap: 1em; color: var(--goud); padding-bottom: 4em; }
-.foot__kop { width: 4.5em; height: auto; }
+.foot__kop { width: 6em; height: auto; }
 .foot__brand .script { font-size: 2.75em; line-height: 1; }
 .foot__top { display: grid; grid-template-columns: repeat(4, minmax(0,1fr)); gap: 1.25em; padding-bottom: 6em; }
 .foot__top > div { display: grid; gap: 0.75em; align-content: start; font-size: 0.9375em; min-width: 0; overflow-wrap: anywhere; }
@@ -379,7 +379,7 @@ html:not(.anim) .pre { display: none; }
   .foot__top { grid-template-columns: 1fr 1fr; gap: 2.25em 1em; padding-bottom: 4em; }
   .foot__mark { font-size: 12vw; }
   .foot__brand { padding-bottom: 3em; }
-  .foot__kop { width: 3.5em; }
+  .foot__kop { width: 4.5em; }
   .foot__brand .script { font-size: 2.25em; }
 }
 

diff --git a/src/App.tsx b/src/App.tsx
@@ -1,6 +1,6 @@
 import { useEffect, useRef, useState, type KeyboardEvent as ReactKeyboardEvent, type ReactNode } from 'react';
 import { initMotion, lockScroll, motion } from './motion';
-import { KOP, KOP_VB } from './kop';
+import { KOP_D, KOP_VB } from './kop';
 import { KAART } from './kaart';
 
 const contact = {
@@ -109,17 +109,12 @@ function Foto({ img, mobile, sizes = '100vw', mode = 'parallax', shade = false, 
   );
 }
 
-/* Paardenkop uit het logo als lijntekening (sw = lijndikte in viewBox-eenheden, dikker voor kleine formaten) */
-function Kop({ className, sw = 9 }: { className?: string; sw?: number }) {
+/* Paardenkop uit het logo (gedetailleerd gevuld pad). Met draw=true komt er een omlijning bij voor de loader. */
+function Kop({ className, draw = false }: { className?: string; draw?: boolean }) {
   return (
-    <svg className={`kop ${className ?? ''}`} viewBox={KOP_VB} fill="none" stroke="currentColor" strokeWidth={sw} strokeLinecap="round" strokeLinejoin="round" aria-hidden="true" focusable="false">
-      {KOP.map((k, i) =>
-        k.e ? (
-          <ellipse key={i} className={k.t} cx={k.e[0]} cy={k.e[1]} rx={k.e[2]} ry={k.e[3]} fill="currentColor" pathLength={1} />
-        ) : (
-          <path key={i} className={k.t} d={k.d} fill={k.t === 'fl' ? 'currentColor' : 'none'} pathLength={1} />
-        ),
-      )}
+    <svg className={`kop ${className ?? ''}`} viewBox={KOP_VB} aria-hidden="true" focusable="false">
+      <path className="kop__f" d={KOP_D} fill="currentColor" fillRule="evenodd" />
+      {draw && <path className="kop__s" d={KOP_D} fill="none" stroke="currentColor" strokeWidth={0.9} strokeLinejoin="round" pathLength={1} />}
     </svg>
   );
 }
@@ -128,7 +123,7 @@ function Preloader() {
   return (
     <div className="pre" aria-hidden="true">
       <div className="pre__in">
-        <Kop className="pre__kop" sw={8} />
+        <Kop className="pre__kop" draw />
         <p className="pre__naam">
           <span>’t Peerdeke</span>
         </p>
@@ -208,7 +203,7 @@ function Header() {
             Bel ons
           </a>
           <a href="#top" className="hdr__logo" aria-label="’t Peerdeke, naar boven" onClick={() => setOpen(false)}>
-            <Kop className="hdr__kop" sw={26} />
+            <Kop className="hdr__kop" />
             <span>’t Peerdeke</span>
           </a>
           <button ref={togRef} type="button" className="hdr__tog" aria-expanded={open} aria-controls="menu" aria-label={open ? 'Menu sluiten' : 'Menu openen'} onClick={() => setOpen((o) => !o)}>
@@ -631,7 +626,7 @@ function Footer() {
   return (
     <footer className="foot">
       <div className="foot__brand">
-        <Kop className="foot__kop" sw={14} />
+        <Kop className="foot__kop" />
         <span className="script">’t Peerdeke</span>
       </div>
       <div className="foot__top">

diff --git a/src/motion.ts b/src/motion.ts
@@ -75,16 +75,17 @@ export function initMotion(): () => void {
     };
 
     if (pre) {
-      // 1) paardenkop tekent zich (stroke-dashoffset, pathLength = 1), 2) vlakken vullen, 3) naam veegt in, 4) alles veegt weg
-      const lijnen = pre.querySelectorAll('.pre__kop .ln, .pre__kop .fl');
-      const vlakken = pre.querySelectorAll('.pre__kop .fl');
+      // 1) omtrek van de paardenkop tekent zich (stroke-dashoffset, pathLength = 1), 2) gedetailleerde vulling verschijnt, 3) naam veegt in, 4) alles veegt weg
+      const lijnen = pre.querySelectorAll('.pre__kop .kop__s');
+      const vlakken = pre.querySelectorAll('.pre__kop .kop__f');
       gsap.set(lijnen, { strokeDasharray: 1, strokeDashoffset: 1 });
       gsap.set(vlakken, { fillOpacity: 0 });
       gsap.set('.pre__naam span', { clipPath: 'inset(-20% 100% -20% 0%)' });
       gsap.set('.pre__line', { autoAlpha: 0, y: 8 });
       const tl = gsap.timeline();
-      tl.to(lijnen, { strokeDashoffset: 0, duration: 0.95, ease: 'power2.inOut', stagger: { amount: 0.25 } }, 0)
-        .to(vlakken, { fillOpacity: 1, duration: 0.45, ease: 'power1.out', stagger: 0.03 }, 0.7)
+      tl.to(lijnen, { strokeDashoffset: 0, duration: 1.0, ease: 'power2.inOut' }, 0)
+        .to(vlakken, { fillOpacity: 1, duration: 0.5, ease: 'power1.out' }, 0.65)
+        .to(lijnen, { strokeOpacity: 0, duration: 0.3 }, 1.0)
         .to('.pre__naam span', { clipPath: 'inset(-20% 0% -20% 0%)', duration: 0.6, ease: 'power2.inOut' }, 0.95)
         .to('.pre__line', { autoAlpha: 0.55, y: 0, duration: 0.45, ease: 'power2.out' }, 1.15);
 
